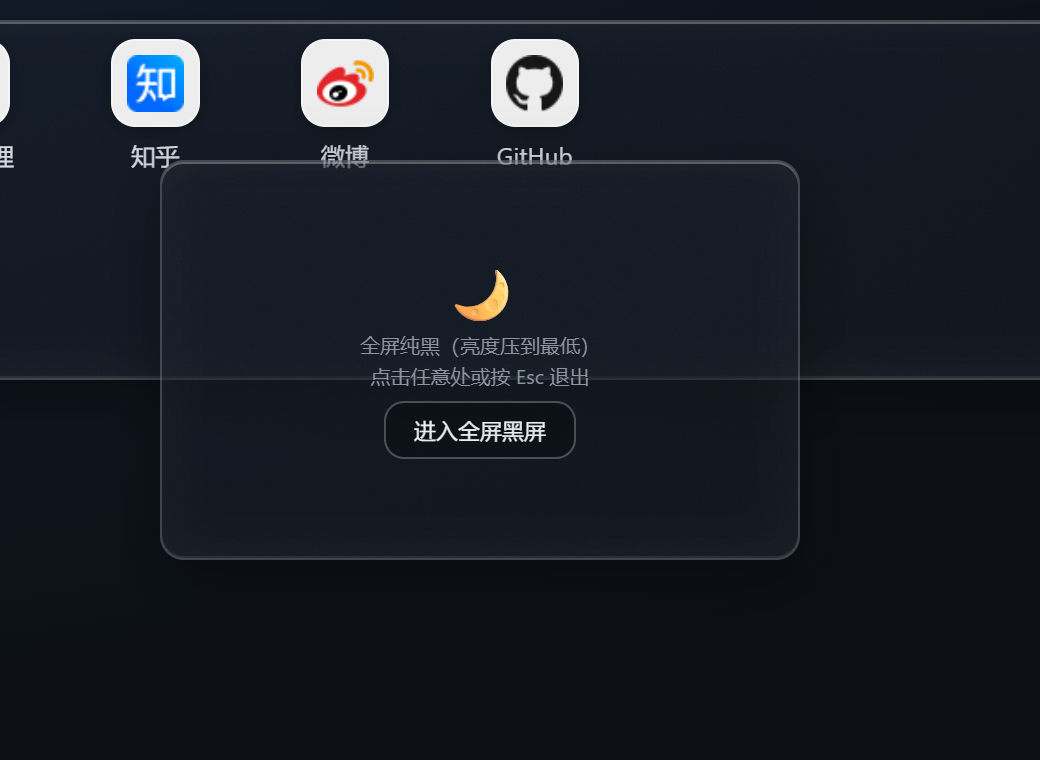
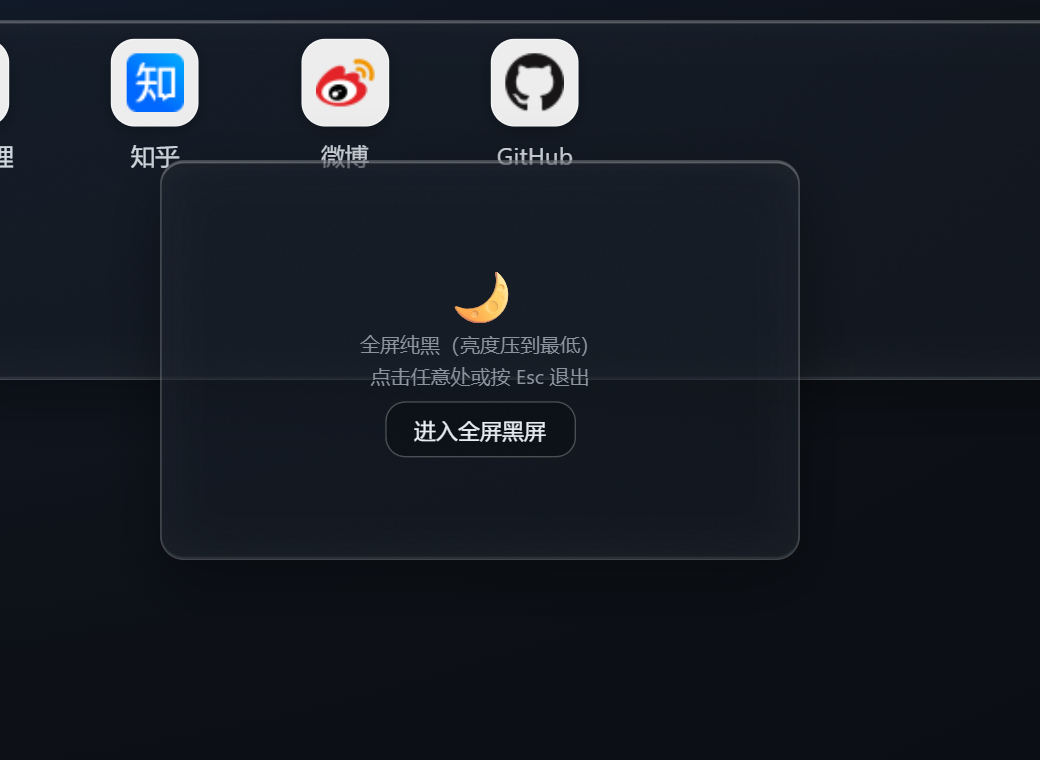
fix(0.6.5): 熄屏模式真正进入全屏（黑屏层常驻渲染，全屏请求在手势内发起）

diff --git a/src/modules/blackout/index.tsx b/src/modules/blackout/index.tsx
@@ -43,13 +43,19 @@ export default function Blackout({ props }: ModuleProps) {
   };
 
   const enter = async () => {
+    // 先用覆盖层立刻变黑（即使全屏被拒也有效）
     setActive(true);
     setHintVisible(true);
-    // 全屏可能被浏览器拒绝（例如没有用户手势）：失败也仍然铺满黑屏
-    try {
-      await layerRef.current?.requestFullscreen?.();
-    } catch {
-      // 忽略
+
+    // 关键：黑屏层是常驻渲染的，这里 ref 一定拿得到；
+    // 请求必须在点击手势的同一个任务里发起，否则浏览器会拒绝。
+    const layer = layerRef.current;
+    if (layer && document.fullscreenEnabled && !document.fullscreenElement) {
+      try {
+        await layer.requestFullscreen({ navigationUI: "hide" });
+      } catch {
+        // 浏览器拒绝（例如页面失焦）：黑屏层兜底，提示里会给出 F11
+      }
     }
     setFullscreen(Boolean(document.fullscreenElement));
     if (keepAwake) requestWakeLock();
@@ -123,30 +129,30 @@ export default function Blackout({ props }: ModuleProps) {
         进入全屏黑屏
       </button>
 
-      {active
-        ? createPortal(
-            <div
-              class="kt-blackout-layer"
-              ref={layerRef}
-              tabIndex={0}
-              data-fullscreen={fullscreen ? "true" : "false"}
-              onPointerDown={exit}
-              data-testid="blackout-layer"
-            >
-              {hintVisible ? (
-                <div class="kt-blackout-hint" data-testid="blackout-hint">
-                  {fullscreen ? "点击任意处或按 Esc 退出" : "浏览器未进入全屏，可按 F11 · 点击任意处或按 Esc 退出"}
-                </div>
-              ) : null}
-              {showClock ? (
-                <div class="kt-blackout-clock" data-testid="blackout-clock">
-                  {formatClock(now)}
-                </div>
-              ) : null}
-            </div>,
-            document.body,
-          )
-        : null}
+      {/* 常驻渲染：这样点击时 ref 一定存在，全屏请求才能在手势内发起 */}
+      {createPortal(
+        <div
+          class="kt-blackout-layer"
+          ref={layerRef}
+          tabIndex={0}
+          data-active={active ? "true" : "false"}
+          data-fullscreen={fullscreen ? "true" : "false"}
+          onPointerDown={active ? exit : undefined}
+          data-testid="blackout-layer"
+        >
+          {active && hintVisible ? (
+            <div class="kt-blackout-hint" data-testid="blackout-hint">
+              {fullscreen ? "点击任意处或按 Esc 退出" : "浏览器未进入全屏，可按 F11 · 点击任意处或按 Esc 退出"}
+            </div>
+          ) : null}
+          {active && showClock ? (
+            <div class="kt-blackout-clock" data-testid="blackout-clock">
+              {formatClock(now)}
+            </div>
+          ) : null}
+        </div>,
+        document.body,
+      )}
     </div>
   );
 }

diff --git a/tests/e2e/blackout.spec.ts b/tests/e2e/blackout.spec.ts
@@ -15,10 +15,13 @@ async function addBlackout(page: Page): Promise<void> {
 test.describe("熄屏模式", () => {
   test("一键进入全屏纯黑，点击任意处退出", async ({ newTab }) => {
     await addBlackout(newTab);
-    await newTab.getByTestId("blackout-enter").click();
-
     const layer = newTab.getByTestId("blackout-layer");
-    await expect(layer).toBeVisible();
+
+    // 平时常驻但不可见、不拦截点击
+    await expect(layer).toHaveAttribute("data-active", "false");
+
+    await newTab.getByTestId("blackout-enter").click();
+    await expect(layer).toHaveAttribute("data-active", "true");
 
     // 纯黑（#000）
     const background = await layer.evaluate((el) => getComputedStyle(el).backgroundColor);
@@ -30,25 +33,32 @@ test.describe("熄屏模式", () => {
     expect(box.width).toBeGreaterThanOrEqual(viewport.width - 1);
     expect(box.height).toBeGreaterThanOrEqual(viewport.height - 1);
 
-    // 尝试真正的全屏（自动化/无手势时可能被拒，此时覆盖层兜底）
-    const fullscreenAttr = await layer.getAttribute("data-fullscreen");
-    expect(["true", "false"]).toContain(fullscreenAttr);
+    // 真的进入全屏了吗（点击手势内发起的 requestFullscreen）
+    const state = await newTab.evaluate(() => ({
+      fullscreen: Boolean(document.fullscreenElement),
+      fullscreenElementClass: document.fullscreenElement?.className ?? null,
+    }));
+    expect(state.fullscreenElementClass).toContain("kt-blackout-layer");
+
     // 提示会在几秒后淡出（之后只剩纯黑）
     await expect(newTab.getByTestId("blackout-hint")).toHaveCount(1);
 
     await layer.click();
-    await expect(newTab.getByTestId("blackout-layer")).toHaveCount(0);
+    await expect(layer).toHaveAttribute("data-active", "false");
     // 退出时应同时退出全屏
-    expect(await newTab.evaluate(() => Boolean(document.fullscreenElement))).toBe(false);
+    await expect
+      .poll(() => newTab.evaluate(() => Boolean(document.fullscreenElement)))
+      .toBe(false);
   });
 
   test("Esc 也能退出", async ({ newTab }) => {
     await addBlackout(newTab);
+    const layer = newTab.getByTestId("blackout-layer");
     await newTab.getByTestId("blackout-enter").click();
-    await expect(newTab.getByTestId("blackout-layer")).toBeVisible();
+    await expect(layer).toHaveAttribute("data-active", "true");
 
     await newTab.keyboard.press("Escape");
-    await expect(newTab.getByTestId("blackout-layer")).toHaveCount(0);
+    await expect(layer).toHaveAttribute("data-active", "false");
   });
 
   test("可配置：显示极暗时钟", async ({ newTab }) => {

diff --git a/src/modules/blackout/blackout.css b/src/modules/blackout/blackout.css
@@ -55,6 +55,15 @@
   place-items: center;
   cursor: none;
   outline: none;
+  /* 常驻渲染但默认不可见/不拦截点击（这样点击时能立刻请求全屏） */
+  opacity: 0;
+  pointer-events: none;
+  transition: opacity 180ms ease;
+}
+
+.kt-blackout-layer[data-active="true"] {
+  opacity: 1;
+  pointer-events: auto;
 }
 
 .kt-blackout-hint {

diff --git a/CHANGELOG.md b/CHANGELOG.md
@@ -1,5 +1,15 @@
 # CHANGELOG
 
+## 0.6.5 — 2026-10-03
+
+修复熄屏模式**没有真正进入全屏**的问题：
+
+- **根因**：黑屏层原来只在 `active === true` 时才渲染，而点击处理器里先 `setActive(true)` 再去取 `layerRef.current` —— 那一刻 DOM 还没更新，ref 是 `null`，`requestFullscreen()` 从未被调用（之前以为是浏览器拦截，其实是这个 bug）
+- **修法**：黑屏层**常驻渲染**（平时 `opacity: 0` + `pointer-events: none`），点击时 ref 必然存在，全屏请求就在用户手势的同一个任务里发起；同时用 `{ navigationUI: "hide" }` 并先判断 `document.fullscreenEnabled`
+- 全屏失败时仍走覆盖层兜底，提示会写"浏览器未进入全屏，可按 F11"
+- 测试加强：E2E 现在**断言真的全屏**——`document.fullscreenElement` 的 className 必须包含 `kt-blackout-layer`（之前只敢断言"是个布尔值"）；退出时断言全屏状态复位
+- 文档同步：`docs/screenshots/22-blackout.png` 重新生成
+
 ## 0.6.4 — 2026-10-03
 
 新增模块「**熄屏模式**」（第 14 个模块）：

diff --git a/docs/manual-checklist.md b/docs/manual-checklist.md
@@ -190,7 +190,7 @@
 ## 16. 熄屏模式
 
 - [ ] 模块 → 添加「熄屏模式」→ 点「进入全屏黑屏」
-- [ ] **真的全屏了吗**：浏览器进入全屏（地址栏/标签栏消失）——若无反应，提示里会写"按 F11"
+- [ ] **真的全屏了吗**：地址栏/标签栏消失（本轮已修复：之前点了没反应；万一没进，提示里会写"按 F11"）
 - [ ] 画面是**纯黑**（关灯看：应几乎没有发光；OLED 屏尤其明显）
 - [ ] 点任意处退出；再进一次，按 **Esc** 也能退出；退出时全屏也一并退出
 - [ ] 3 秒后底部提示消失，只剩纯黑
